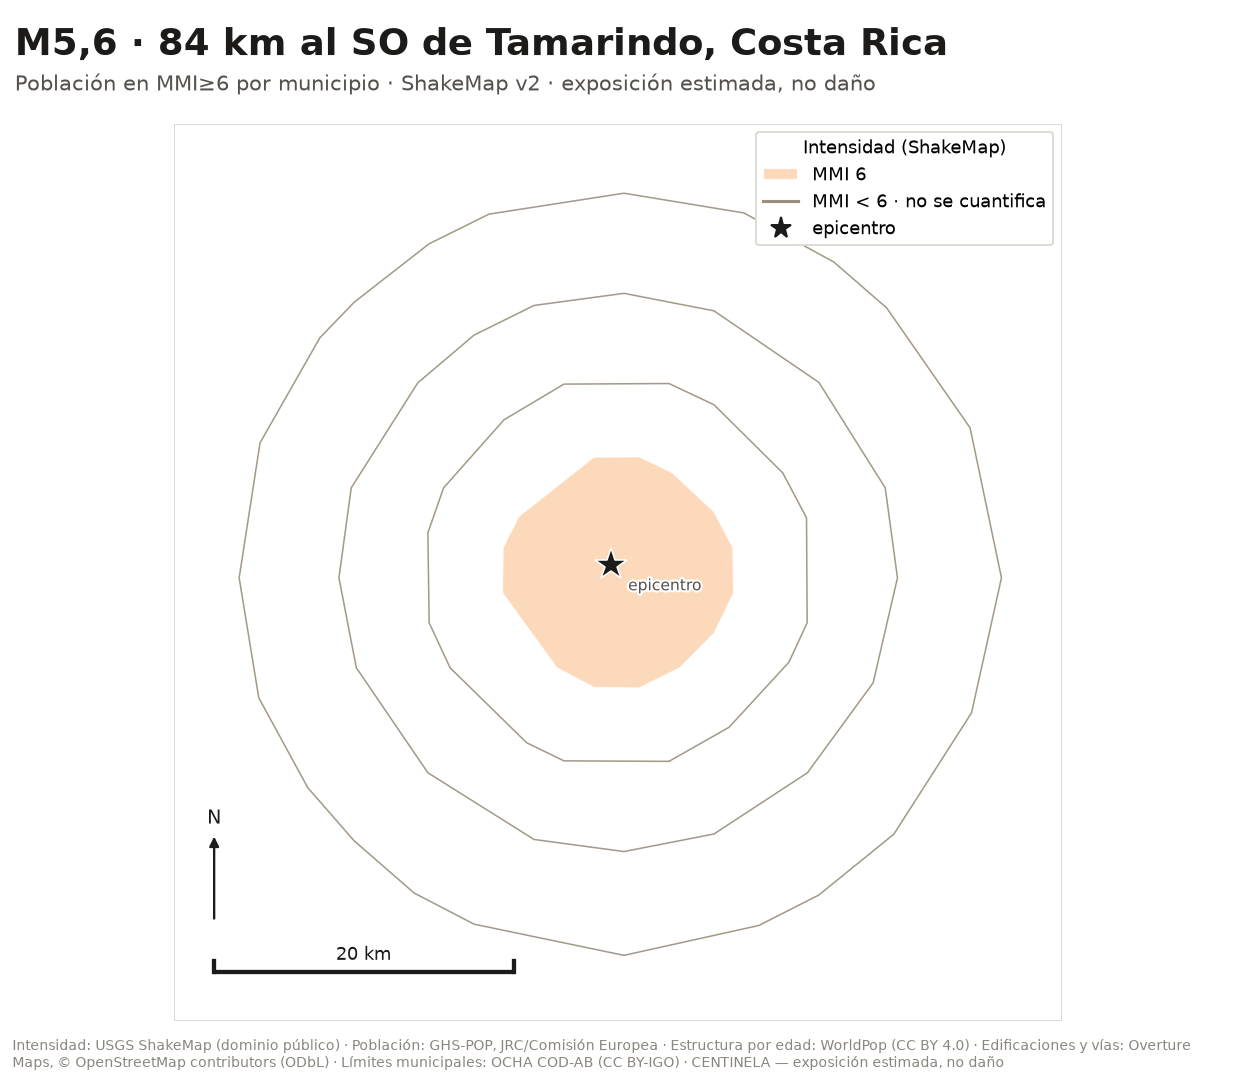
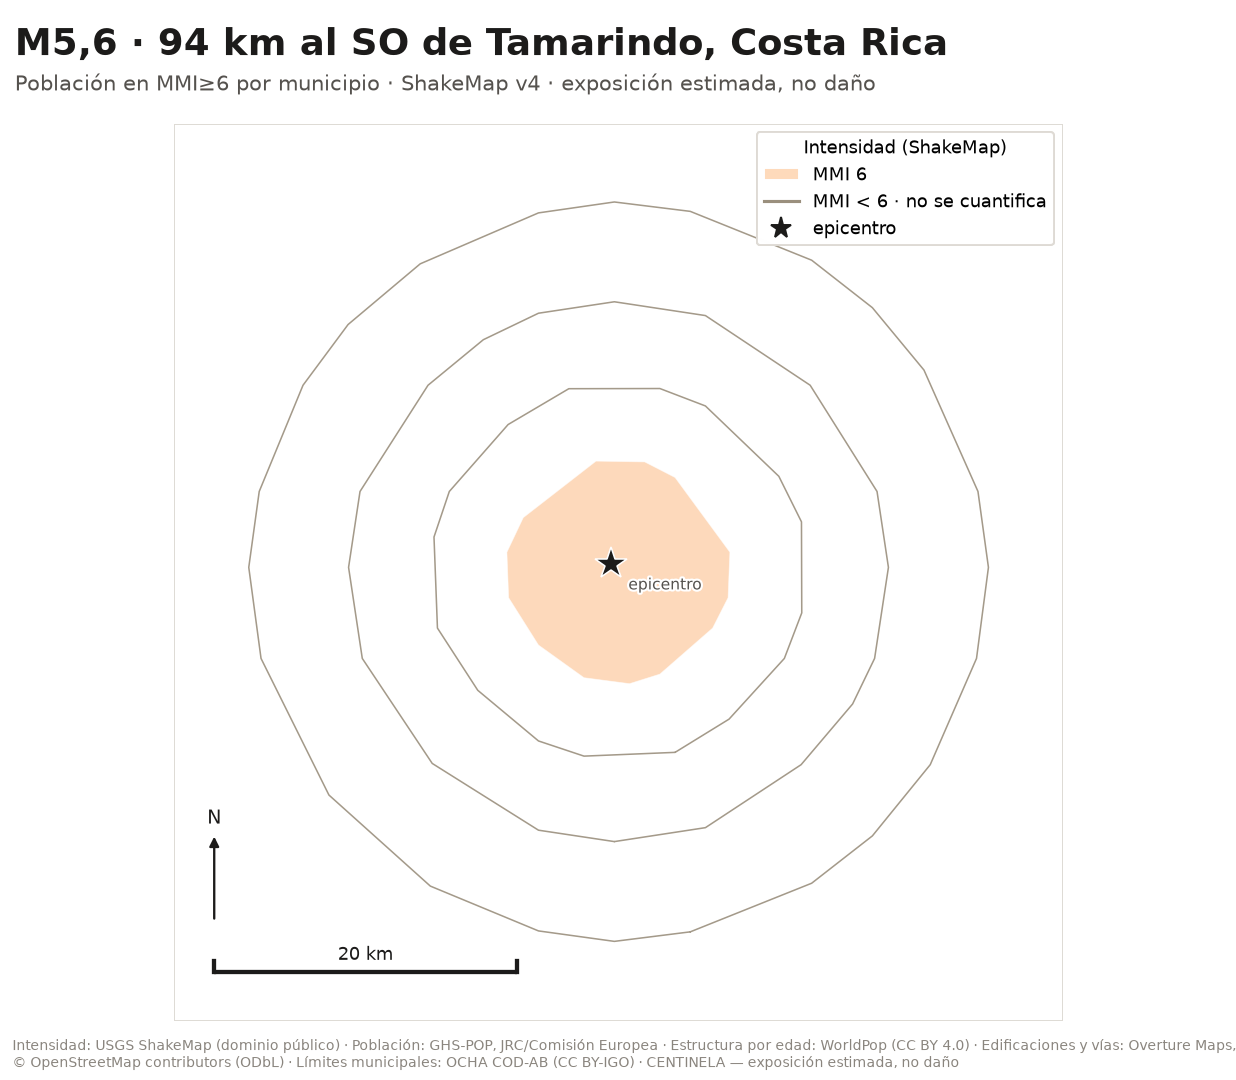
P3: reporte de us6000tymj

diff --git a/reports/us6000tymj/report.md b/reports/us6000tymj/report.md
@@ -1,6 +1,6 @@
-# Exposición sísmica: M5,6 · 84 km al SO de Tamarindo, Costa Rica
+# Exposición sísmica: M5,6 · 94 km al SO de Tamarindo, Costa Rica
 
-**Evento USGS:** `us6000tymj` · **Origen:** 2026-09-30T21:55:27Z UTC · **Profundidad:** 10,0 km
+**Evento USGS:** `us6000tymj` · **Origen:** 2026-09-30T21:55:27Z UTC · **Profundidad:** 8,0 km
 
 ## Exposición estimada
 
@@ -26,7 +26,7 @@ Ninguna banda de intensidad alcanza población, así que la única cifra que dim
 |---|---:|
 | 25 km | 0 |
 | 50 km | 0 |
-| 100 km | 41 mil |
+| 100 km | 22 mil |
 
 Los radios **no son bandas de intensidad**. Aquí no hay modelo de sacudida, solo distancia: un sismo superficial y uno profundo de la misma magnitud tienen el mismo circulo y no se parecen en nada. La cifra sirve para dimensionar, no para priorizar.
 
@@ -44,11 +44,13 @@ Las dos cifras **no se tabulan igual** y no se pueden leer una contra otra: PAGE
 
 Discrepancia entre GHS-POP y WorldPop: **no se pudo medir**. Ninguna celda dentro de las bandas publicadas tiene población de WorldPop con la que contrastar.
 
-- El epicentro está a 78 km de la población más cercana del país con la que se comparó. La sacudida no alcanzó territorio habitado.
+- El epicentro está a 87 km de la población más cercana del país con la que se comparó. La sacudida no alcanzó territorio habitado.
 
 ## Cambios frente a la versión anterior
 
-- ShakeMap: v1 → v2
+- ShakeMap: v2 → v4
+- Profundidad: 10 → 8 km
+- Epicentro: reubicado 10 km
 - Ninguna cifra publicada cambia frente a la versión anterior.
 
 ## Descargas
@@ -58,10 +60,10 @@ Discrepancia entre GHS-POP y WorldPop: **no se pudo medir**. Ninguna celda dentr
 
 ## Procedencia
 
-- ShakeMap consumido: **v2**
+- ShakeMap consumido: **v4**
 - Ground Failure consumido: **ninguno** (no publicado aún)
 - Manifiesto de exposición: [`cri-v0.4`](https://github.com/sforero77/CENTINELA/blob/main/data/manifests/CRI.yaml)
-- Pipeline: `0.1.0` · Generado: 2026-09-30T22:35:48Z
+- Pipeline: `0.1.0` · Generado: 2026-09-30T22:50:57Z
 
 ## Advertencias
 
